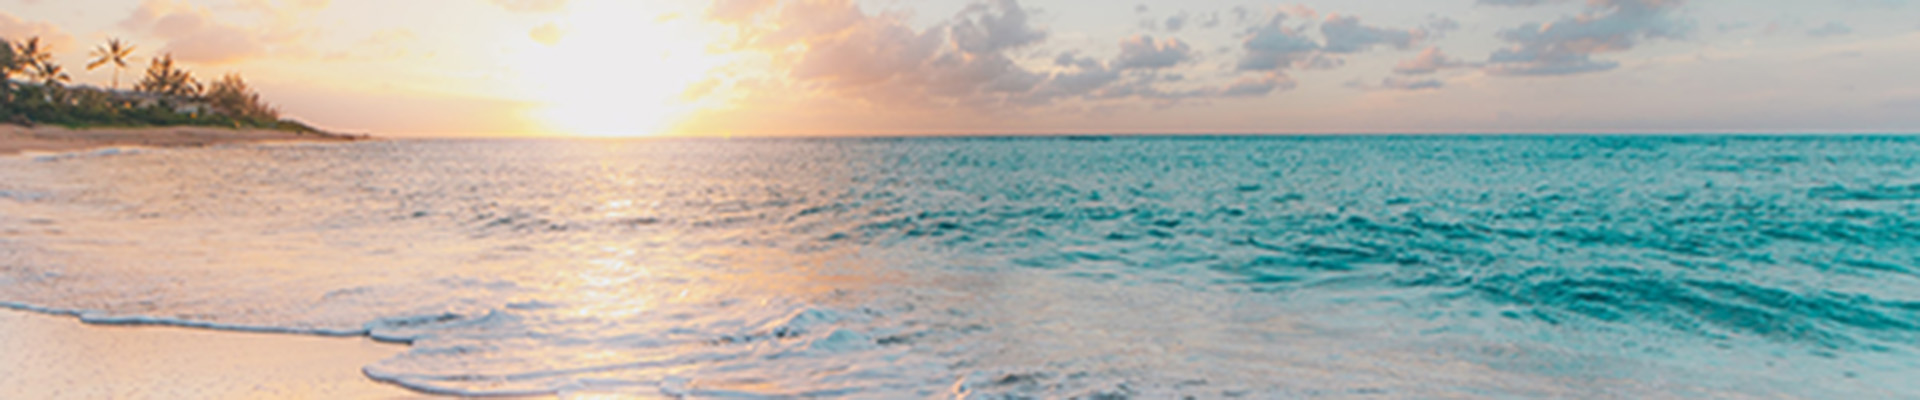
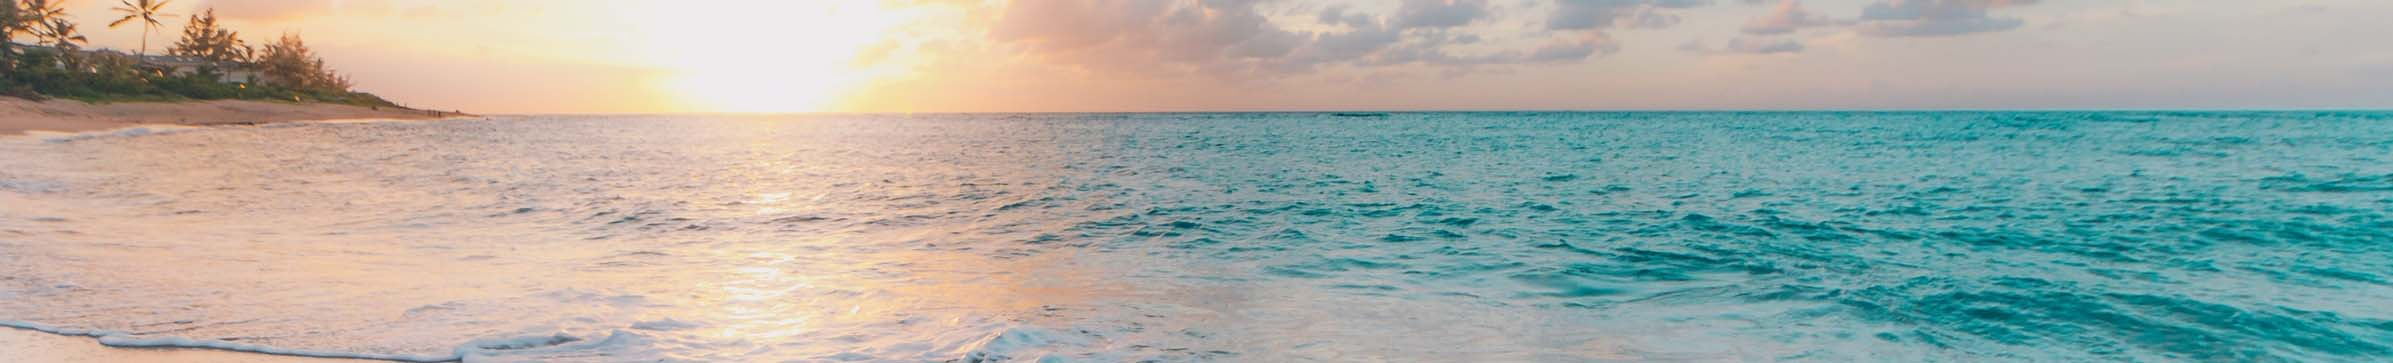
Changed dynamic image from html element to css

diff --git a/app.js b/app.js
@@ -44,7 +44,8 @@ const uiController = (() => {
 
    //DOMstrings
    const elements = {
-      header: document.getElementById('header'),
+     // header: document.getElementById('header'),
+      body: document.getElementById('body'),
       tempInput: document.getElementById('input-temp'),
       results: document.getElementById('result-div'),
       farenheitResult: document.getElementById('farenheit-result'),
@@ -60,6 +61,8 @@ const uiController = (() => {
          let month, season, imgSrc;
          month = new Date().getMonth();
 
+         month = 10;
+
          //Determine which season it is.
          if (month > 1 && month< 5){  //Spring - MAR, APR, MAY
             season = `spring`;
@@ -72,7 +75,10 @@ const uiController = (() => {
          }
 
          //Set the background based on the season.
-         elements.header.insertAdjacentHTML('beforeend', `<img src="img/${season}-crop.jpg" alt="${season} image" id="header-img">`)
+
+         body.style.backgroundImage = `url('img/${season}.jpg')`;
+
+         //elements.header.insertAdjacentHTML('beforeend', `<img src="img/${season}.jpg" alt="${season} image" id="header-img">`)
       },
 
       clearInput: () => {

diff --git a/index.html b/index.html
@@ -6,12 +6,17 @@
    <title>Temperature Convertor</title>
    <link rel="stylesheet" href="styles.css">
 </head>
-<body>
+<body id = "body">
+
+<!--I
    <header id = "header">
       <!--Image varies depending on current season
       <img src="img/winter.jpg" alt="" id="header-img">
-      -->
+      
    </header>
+-->
+
+
    <main id="container">
       <h1 id="headline">Temperature Converter</h1>
       <section id="input-section">

diff --git a/styles.css b/styles.css
@@ -7,11 +7,26 @@
    padding:0;
 }
 
-#header-img{
+#body {
 
-   width: 100%;
+   
+}
+
+#header{
+   height:100vh;
+}
+
+#header-img{
+   width:100%;
+   height:100vh;
+   
 }
 
 #headline{
-   color: red;
+
+}
+
+main{
+   
+ 
 }
